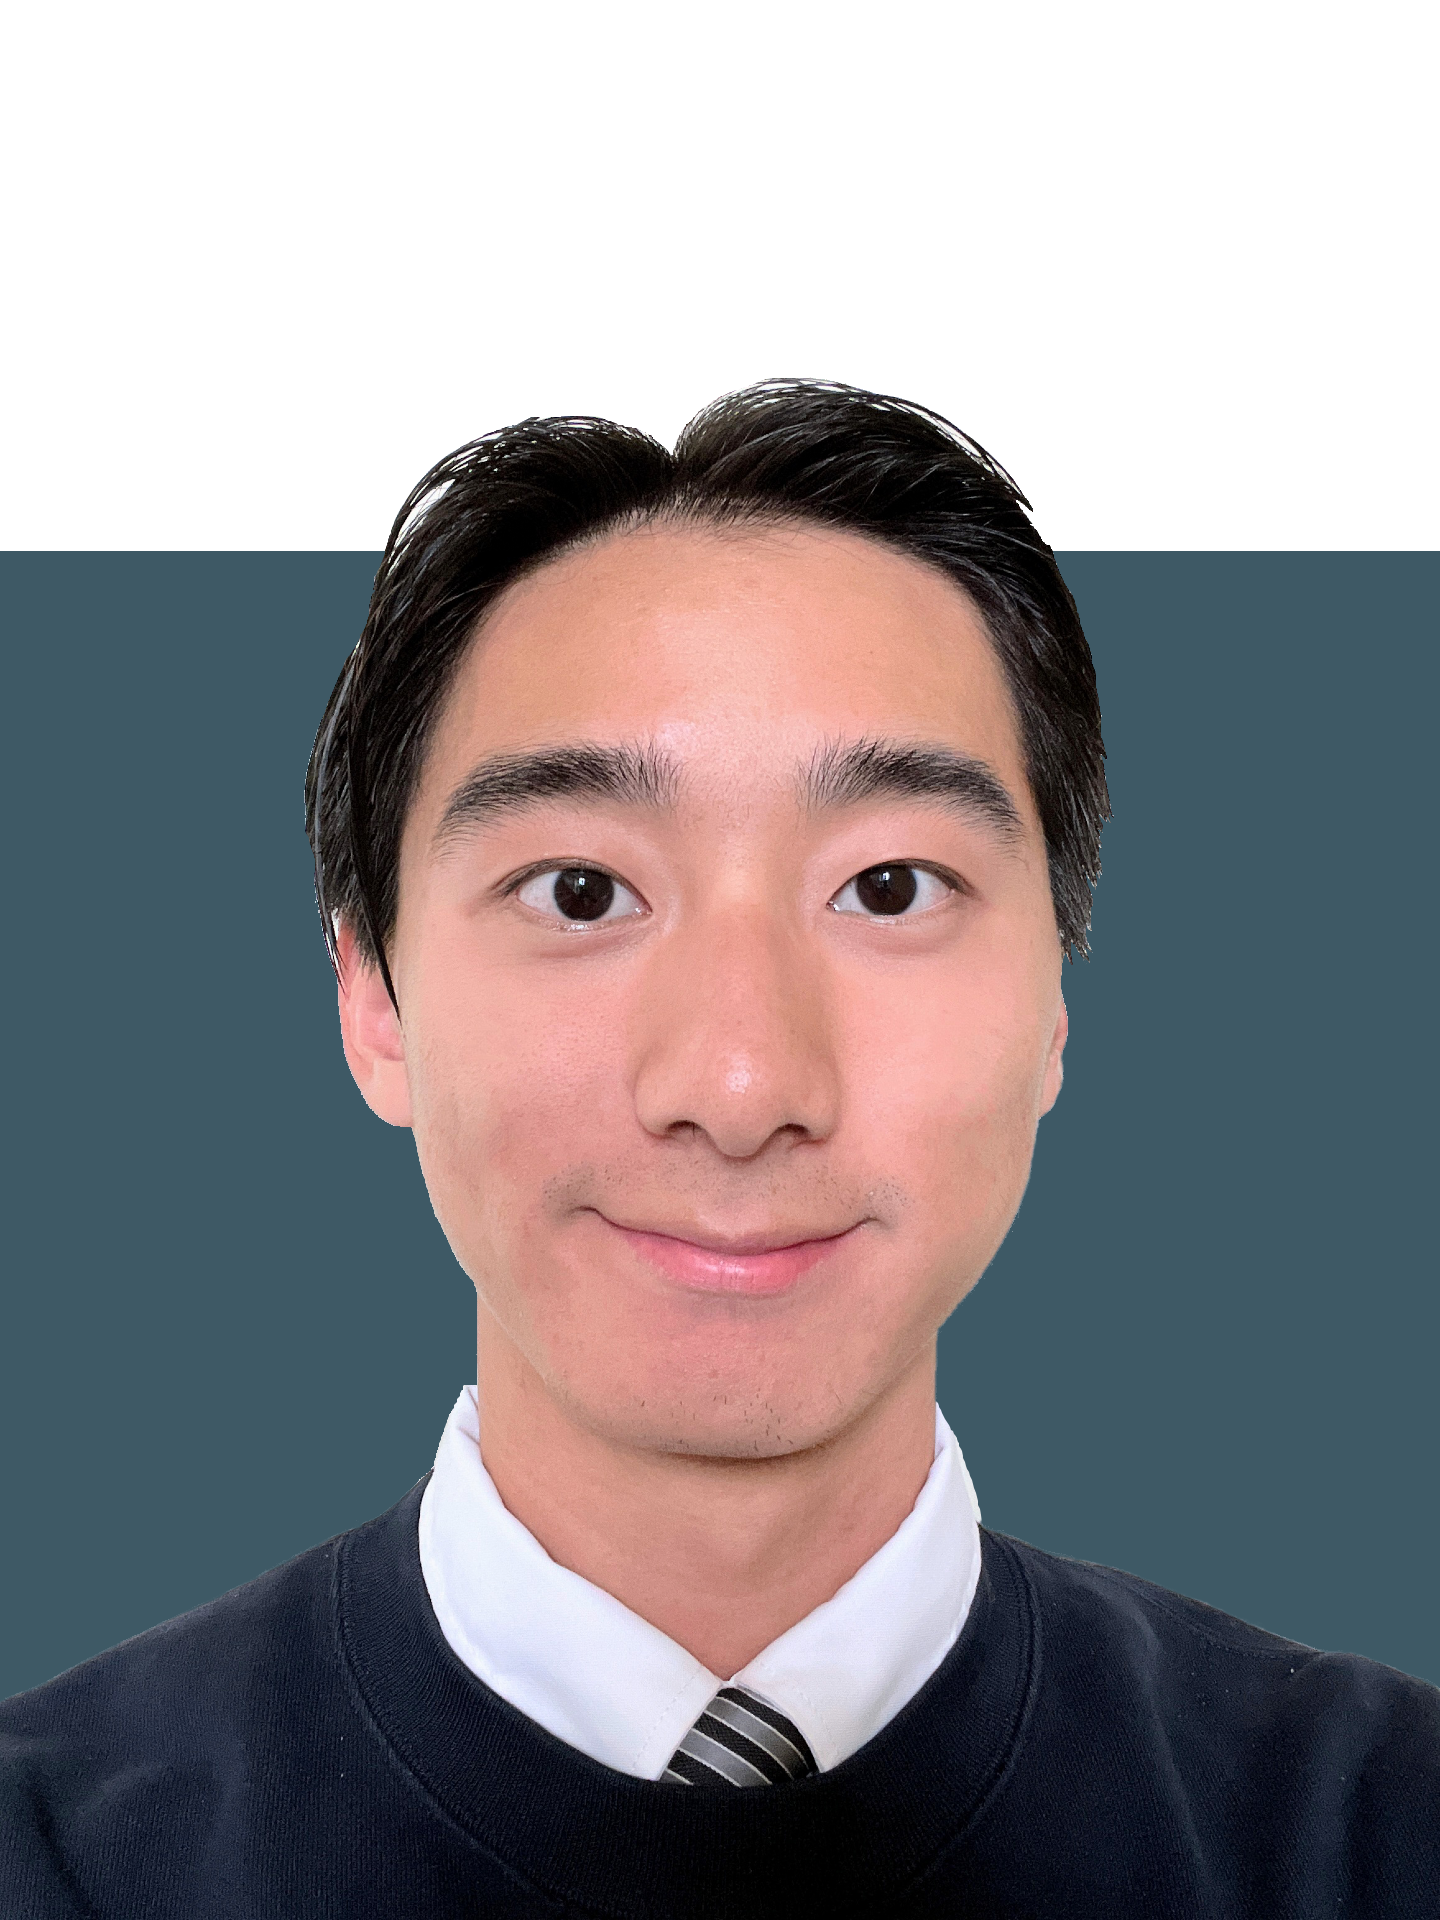
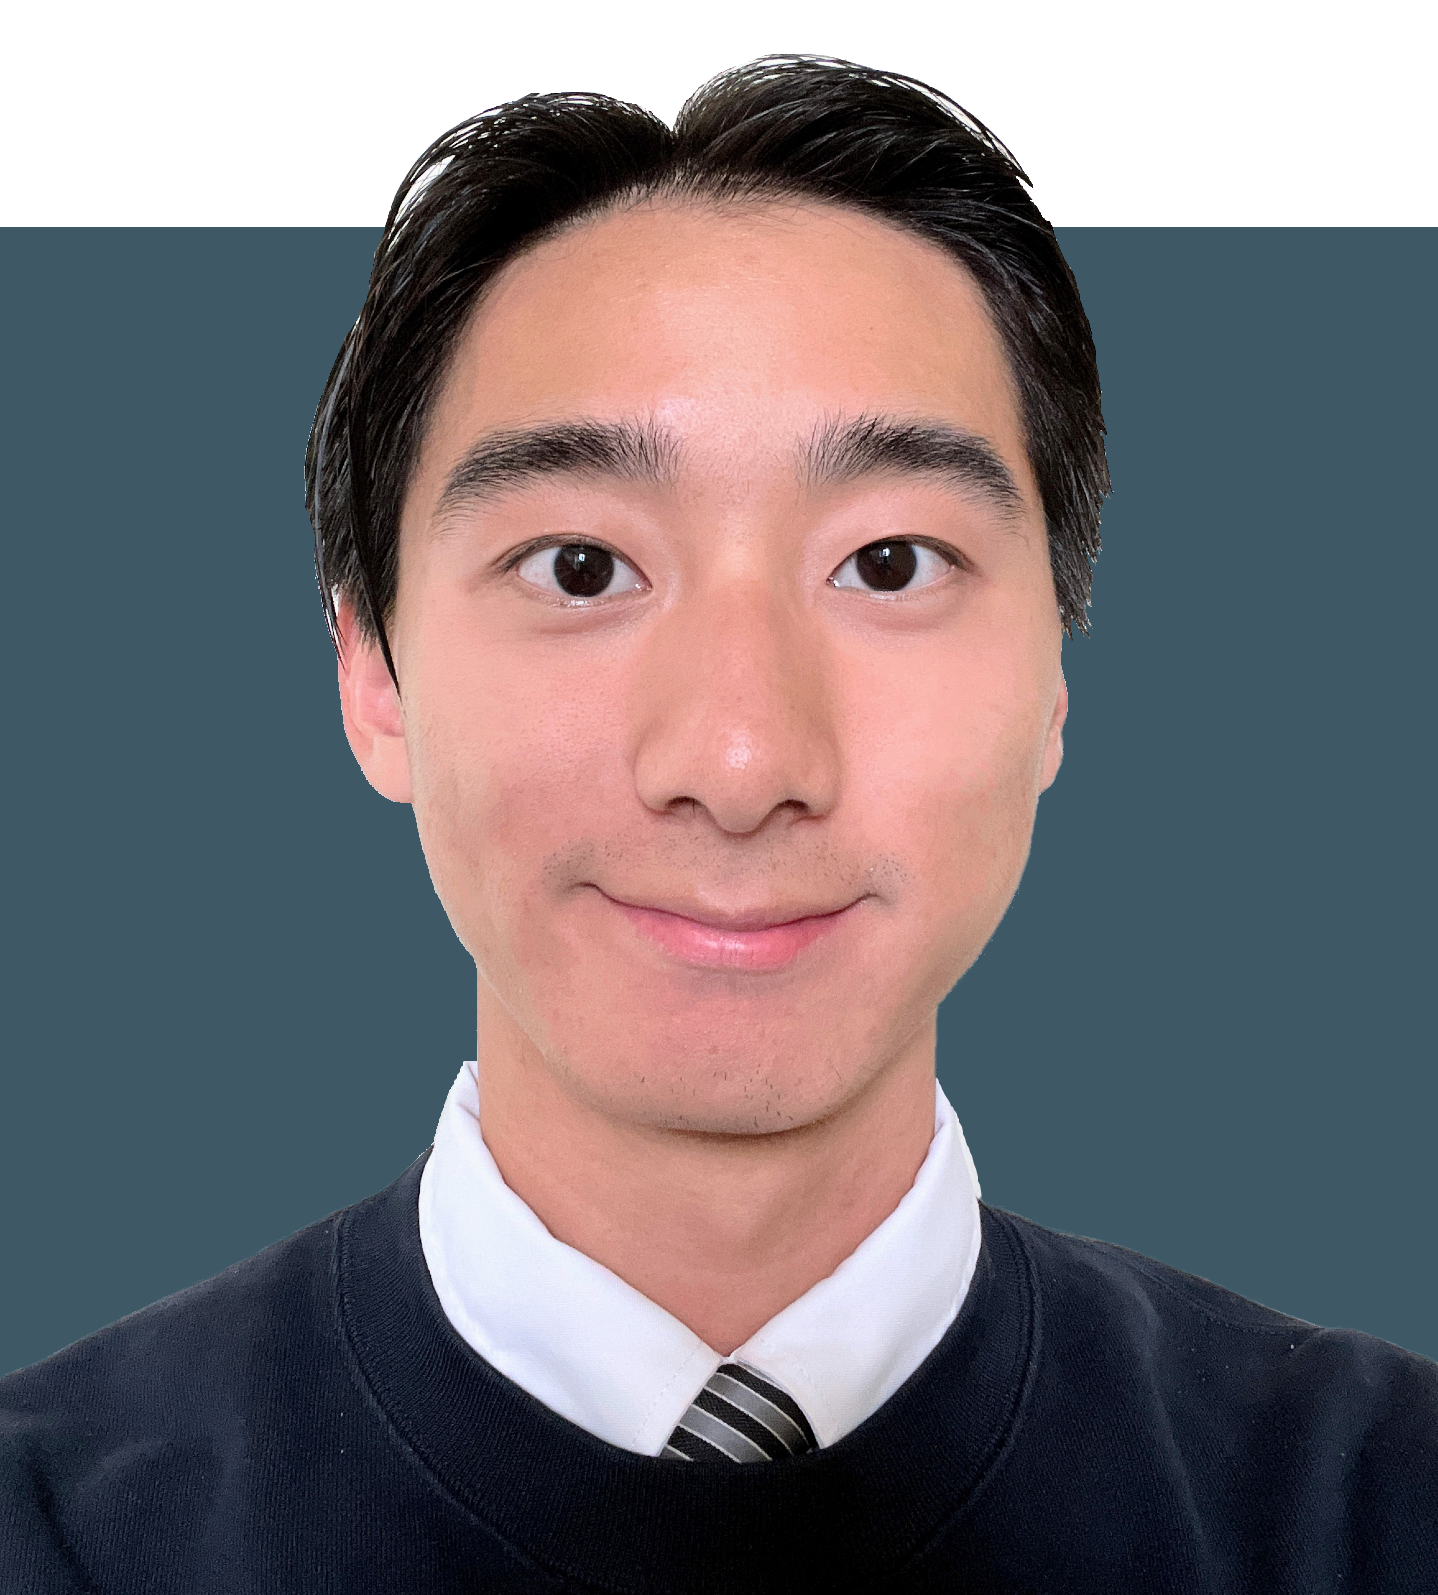
added jason's pic + changed spacing in code to better fit his picture

diff --git a/executive.html b/executive.html
@@ -200,8 +200,8 @@
   <div class="image-container">
   
     <h2 class="gridName"> Jason Zheng </h2>
-    <br>
-	<br>
+   
+	
     <img class = "exec-img" src="assets/images/jason.png" alt="Jason Zheng">
     
     <!-- Position, Major, Email -->
